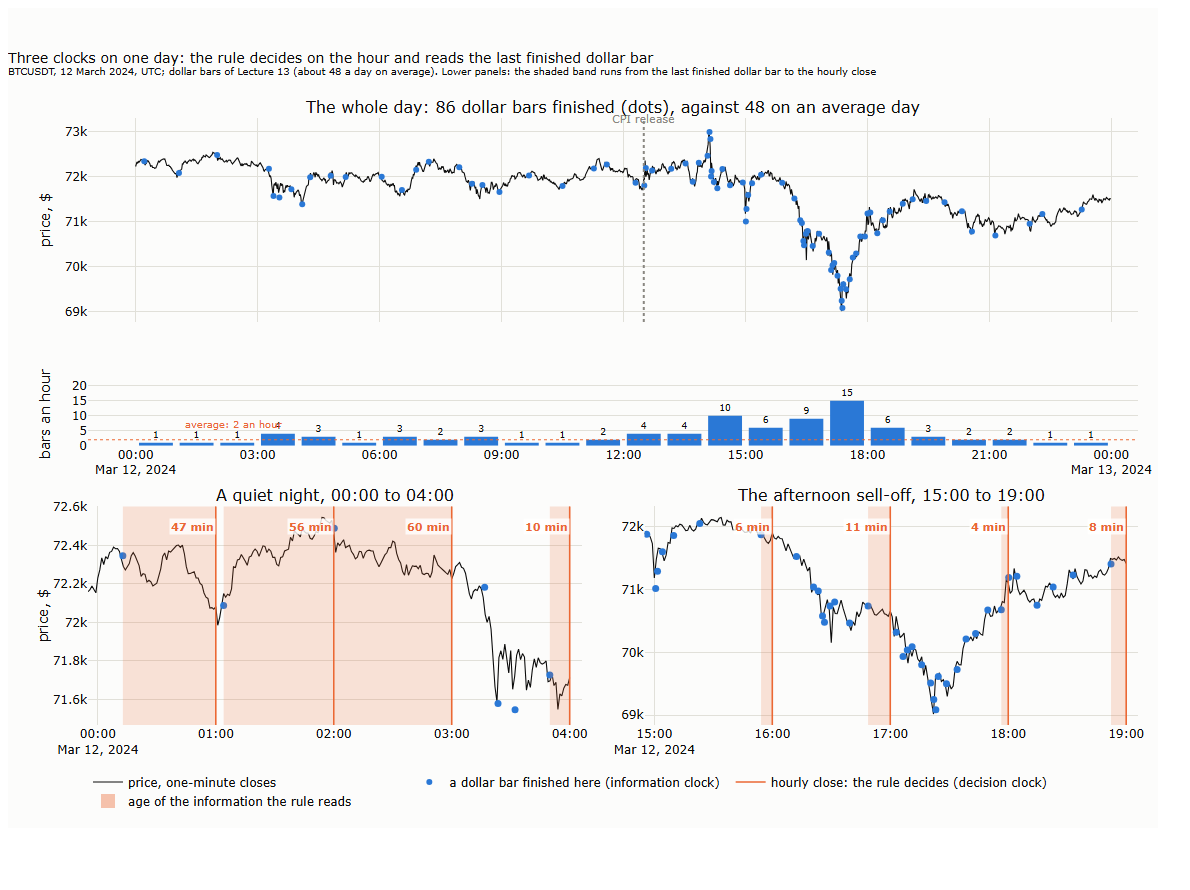
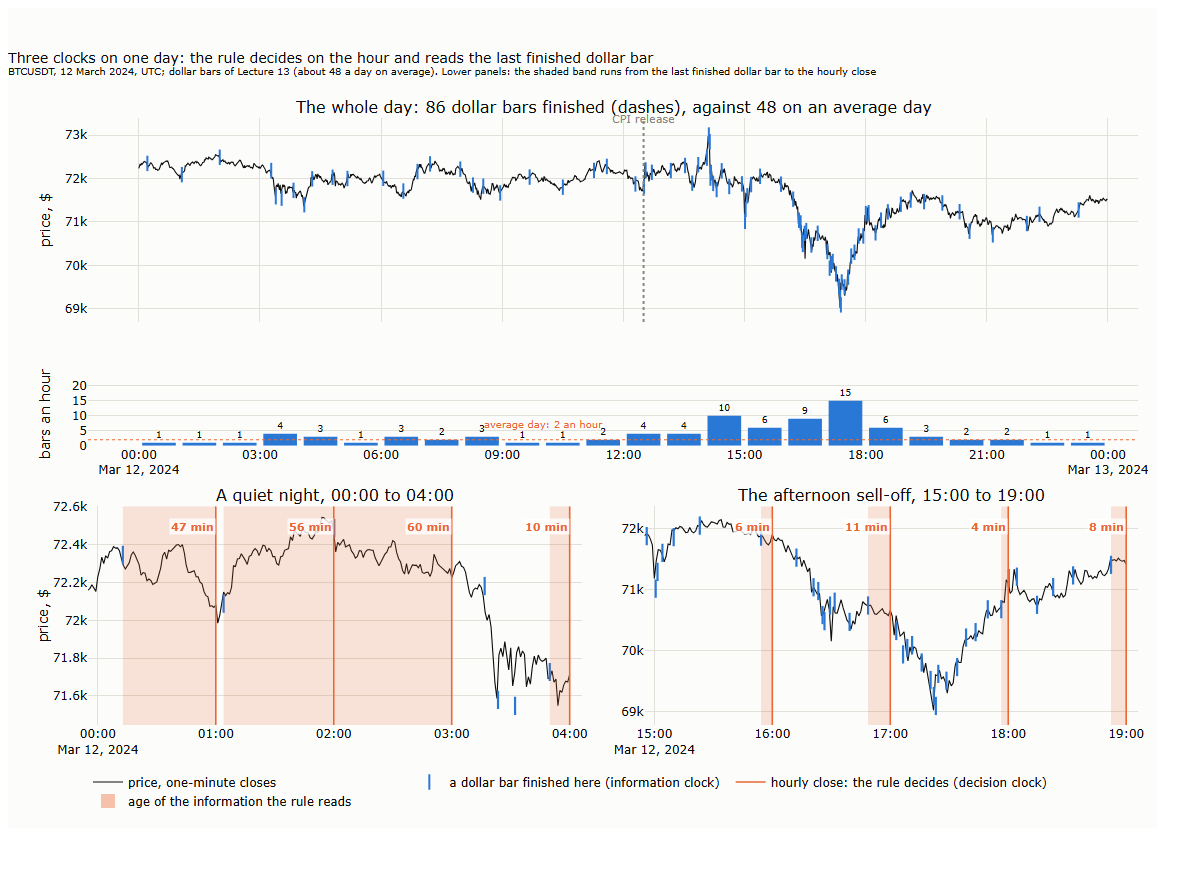
L16 figure 16_01: dashes for dollar-bar ends, key under the figure (#200)

diff --git a/lectures/16-trend-on-the-tape/lecture.md b/lectures/16-trend-on-the-tape/lecture.md
@@ -35,7 +35,9 @@ The decision clock stays on the calendar throughout. Funding is paid every eight
 
 ![Three clocks on one day: hourly closes and dollar-bar ends on 12 March 2024, and the age of the latest finished dollar bar at each hourly close](figures/16_01_three_clocks.png)
 
-Each dot marks the moment a dollar bar finished, and the columns count them hour by hour. Dollar bars are sparse at night, one an hour or fewer, and bunch when the market is busy: on this day 86 of them, against 48 on an average day, 15 in the single hour of the afternoon sell-off. The hourly closes do not move. In the lower panels, the shaded band runs from the last finished dollar bar to each hourly close: it is how old the information is that the rule can read, an hour at night, a few minutes in the sell-off.
+*How to read the figure. **Black line:** the price, from one-minute closes. **Blue dashes:** each marks the moment a dollar bar finished, that is, when another fixed amount of dollars, about a 48th of a typical day's trading, had changed hands; this is the information clock. **Columns (middle strip):** how many dollar bars finished in each hour; the dotted line is an average day's two an hour. **Orange vertical lines (lower panels):** the hourly closes, at which the rule decides; this is the decision clock. **Shaded bands (lower panels):** each runs from the last dollar bar that had finished before an hourly close to that close; its width, written above it, is how old the newest dollar-bar information is when the rule decides.*
+
+Each dash marks the moment a dollar bar finished, and the columns count them hour by hour. Dollar bars are sparse at night, one an hour or fewer, and bunch when the market is busy: on this day 86 of them, against 48 on an average day, 15 in the single hour of the afternoon sell-off. The hourly closes do not move. In the lower panels, the shaded band runs from the last finished dollar bar to each hourly close: it is how old the information is that the rule can read, an hour at night, a few minutes in the sell-off.
 
 A value computed on dollar bars, such as a moving average or a volatility, is therefore a staircase in clock time: it steps when a bar finishes and stays flat until the next one. An hourly rule reads that staircase at each of its closes:
 
